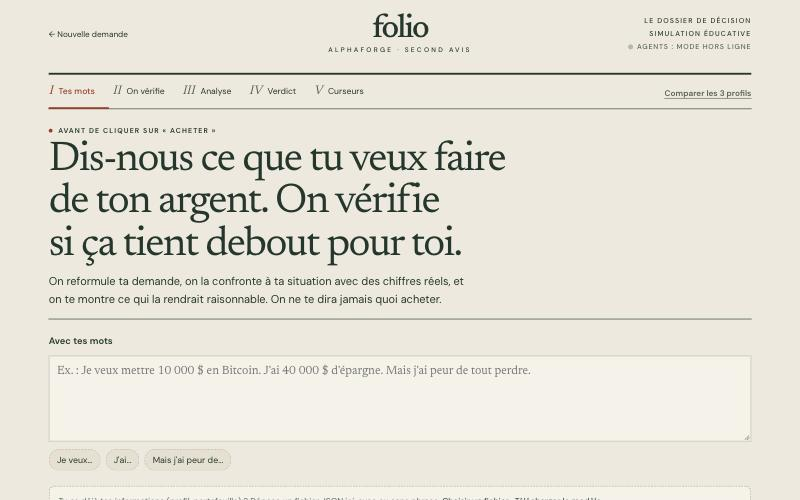
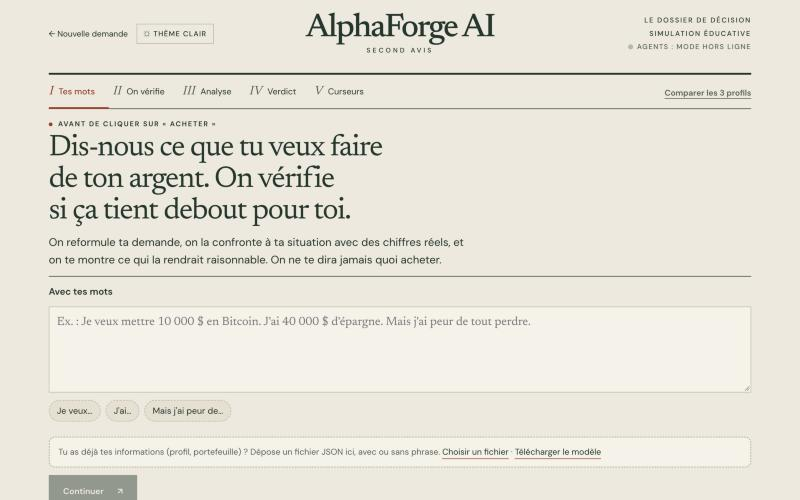
fix(ui-folio): la manchette retrouve son emplacement et sa taille ; seul le nom change
« AlphaForge AI » prend la place du mot-symbole, centré, au même corps ; « Second avis » dessous.
Le resserrement du contenu et les sections repliables sont conservés.

diff --git a/frontend/src/folio.css b/frontend/src/folio.css
@@ -48,23 +48,28 @@ h3 { font-size: 1.1rem; }
 .surtitre::before { content: ""; display: inline-block; width: 6px; height: 6px; border-radius: 50%; background: var(--red); margin-right: 9px; vertical-align: middle; }
 .lede { font-size: 1.1rem; color: var(--ink); max-width: 56ch; }
 
-/* En-tête sobre : une seule ligne, le nom de l'énoncé, les étapes, les réglages */
-.entete { background: var(--paper); border-bottom: 1px solid var(--ink); position: sticky; top: 0; z-index: 5; }
-.entete-int { max-width: 1180px; padding: 8px 28px; display: flex; align-items: center; gap: 6px 22px; flex-wrap: wrap; }
-.marque { flex-direction: row; align-items: baseline; gap: 10px; font: 500 1.3rem/1.1 var(--serif); letter-spacing: -0.02em; color: var(--ink); }
+/* Manchette */
+.entete { background: var(--paper); border-bottom: 0; position: static; }
+.entete-int { max-width: 1180px; padding: 22px 28px 0; display: grid; grid-template-columns: 1fr auto 1fr; align-items: center; gap: 12px 20px; }
+.manchette-gauche { justify-self: start; display: flex; align-items: center; gap: 14px; flex-wrap: wrap; }
+.manchette-droite { justify-self: end; text-align: right; font: 500 0.7rem/1.9 var(--sans); letter-spacing: 0.16em; text-transform: uppercase; }
+.marque { flex-direction: column; gap: 6px; justify-self: center; font: 500 3.3rem/0.9 var(--serif); letter-spacing: -0.05em; color: var(--ink); white-space: nowrap; }
 .marque-signe { display: none; }
-.marque-sous { border: 0; padding: 0; font: 500 0.62rem/1 var(--sans); letter-spacing: 0.2em; text-transform: uppercase; color: var(--muted-f); }
-.manchette-droite { margin-left: auto; display: flex; align-items: center; gap: 14px; flex-wrap: wrap; font: 500 0.66rem/1.4 var(--sans); letter-spacing: 0.12em; text-transform: uppercase; }
-.etat-dossier { color: var(--ink); }
-.etat-agents { border: 0; background: none; padding: 0; font: inherit; color: var(--muted-f); }
+.marque-sous { border: 0; padding: 0; font: 500 0.66rem/1 var(--sans); letter-spacing: 0.34em; text-transform: uppercase; color: var(--ink); }
+.lien-retour { background: none; border: 0; padding: 6px 0; cursor: pointer; font-size: 0.82rem; color: var(--ink); }
+.lien-retour:hover { color: var(--red); }
+.etat-agents { border: 0; background: none; padding: 0; font: 500 0.7rem/1.9 var(--sans); letter-spacing: 0.12em; text-transform: uppercase; color: var(--muted-f); }
 .etat-agents i { background: var(--line); }
 .etat-agents.actifs i { background: var(--green); }
+
+.barre-etapes { grid-column: 1 / -1; display: flex; align-items: flex-end; justify-content: space-between; gap: 16px; flex-wrap: wrap; border-top: 3px solid var(--ink); border-bottom: 1px solid var(--ink); margin-top: 18px; }
 .etapes { margin: 0; gap: 0; }
-.etapes li { border-radius: 0; padding: 8px 14px 6px 0; font-size: 0.82rem; color: var(--ink); gap: 7px; border-bottom: 2px solid transparent; }
-.etape-num { width: auto; height: auto; border: 0; border-radius: 0; background: none !important; color: var(--muted-f) !important; font: italic 400 1.05rem/1 var(--serif); }
+.etapes li { border-radius: 0; padding: 16px 22px 14px 0; margin-right: 6px; font-size: 0.86rem; color: var(--ink); gap: 9px; border-bottom: 3px solid transparent; margin-bottom: -1px; }
+.etape-num { width: auto; height: auto; border: 0; border-radius: 0; background: none !important; color: var(--muted-f) !important; font: italic 400 1.25rem/1 var(--serif); }
 .etapes li.actuelle { background: none; color: var(--red); font-weight: 500; border-bottom-color: var(--red); }
 .etapes li.actuelle .etape-num { color: var(--red) !important; }
-.entete .bouton.discret { border: 0; background: none; padding: 6px 0; min-height: 32px; font: inherit; letter-spacing: 0.08em; text-decoration: underline; text-underline-offset: 4px; }
+.etapes li.faite { color: var(--ink); }
+.barre-etapes .bouton.discret { border: 0; background: none; padding: 14px 0; font-size: 0.82rem; text-decoration: underline; text-underline-offset: 4px; }
 
 .contenu { max-width: 1180px; padding: 16px 28px 48px; }
 section { gap: 12px; }
@@ -205,9 +210,11 @@ h2[data-repliable]:hover { color: var(--red); }
 .noeud-raisonnement { border-radius: 0; }
 
 @media (max-width: 820px) {
-  .entete { position: static; }
-  .entete-int { padding: 8px 16px; gap: 4px 14px; }
-  .manchette-droite { margin-left: 0; gap: 10px; }
+  .entete-int { grid-template-columns: 1fr; justify-items: center; padding: 14px 16px 0; }
+  .manchette-gauche, .manchette-droite { justify-self: center; text-align: center; }
+  .marque { font-size: 2.3rem; }
+  .barre-etapes { justify-content: center; margin-top: 10px; }
+  .etapes li { padding: 10px 10px 8px 0; }
   .contenu { padding: 12px 16px 40px; }
   .pied { padding: 10px 16px 20px; }
   .verdict-tete.carte { grid-template-columns: 1fr; }
@@ -230,5 +237,4 @@ h2[data-repliable]:hover { color: var(--red); }
   .saisie-message { grid-template-columns: minmax(0, 1fr) auto; }
   .saisie-message .bouton { padding: 12px 14px; }
   .saisie-message .bouton.principal::after { display: none; }
-  .etapes li { padding: 6px 10px 4px 0; }
 }

diff --git a/frontend/src/App.jsx b/frontend/src/App.jsx
@@ -178,36 +178,40 @@ export default function App() {
     <div className="app">
       <header className="entete">
         <div className="entete-int">
-          <button type="button" className="marque" onClick={() => { setVue('parcours'); recommencer() }} title="Nouvelle demande">
+          <div className="manchette-gauche">
+            <button type="button" className="lien-retour" onClick={() => { setVue('parcours'); recommencer() }}>← Nouvelle demande</button>
+            <button type="button" className="choix-theme" role="switch" aria-checked={theme === 'sombre'}
+              onClick={() => setTheme(theme === 'sombre' ? 'clair' : 'sombre')} title="Changer de thème">
+              <span aria-hidden="true">{theme === 'sombre' ? '☾' : '☼'}</span> Thème {theme === 'sombre' ? 'sombre' : 'clair'}
+            </button>
+          </div>
+          <button type="button" className="marque" onClick={() => { setVue('parcours'); recommencer() }} aria-label={`${NOM_PRODUIT}, ${SOUS_TITRE} : revenir au début`}>
             {NOM_PRODUIT}
             <span className="marque-sous">{SOUS_TITRE}</span>
           </button>
-          {vue === 'parcours' && (
-            <ol className="etapes" aria-label="Étapes du parcours">
-              {ETAPES.map((nom, i) => (
-                <li key={nom} className={i === etape ? 'actuelle' : i < etape ? 'faite' : ''} aria-current={i === etape ? 'step' : undefined}>
-                  <span className="etape-num" aria-hidden="true">{ROMAINS[i]}</span>
-                  <span className="etape-nom">{nom}</span>
-                </li>
-              ))}
-            </ol>
-          )}
           <div className="manchette-droite">
-            {editions.length > 0 && (
-              <span className="etat-dossier">{lue !== null ? 'Archive' : 'Édition'} {indexEdition + 1}/{editions.length}{relance ? ' · analyse en cours' : ''}</span>
-            )}
+            <div>Le dossier de décision</div>
+            <div>{editions.length === 0 ? 'Simulation éducative'
+              : `${lue !== null ? 'Archive' : 'Édition'} ${indexEdition + 1} sur ${editions.length} · ${relance ? 'analyse en cours' : 'analyse terminée'}`}</div>
             {sante && (
               <span className={`etat-agents ${sante.llm ? 'actifs' : ''}`}
                 title={sante.llm ? `${sante.modeles.principal} et ${sante.modeles.leger}` : sante.raison || ''}>
                 <i aria-hidden="true" />
-                {sante.llm ? 'Bedrock' : 'Hors ligne'}
+                {sante.llm ? 'Agents IA : Bedrock' : 'Agents : mode hors ligne'}
               </span>
             )}
-            <button type="button" className="choix-theme" role="switch" aria-checked={theme === 'sombre'}
-              onClick={() => setTheme(theme === 'sombre' ? 'clair' : 'sombre')} title="Changer de thème"
-              aria-label={`Thème ${theme === 'sombre' ? 'sombre' : 'clair'} : changer`}>
-              <span aria-hidden="true">{theme === 'sombre' ? '☾' : '☼'}</span>
-            </button>
+          </div>
+          <div className="barre-etapes">
+            {vue === 'parcours' ? (
+              <ol className="etapes" aria-label="Étapes du parcours">
+                {ETAPES.map((nom, i) => (
+                  <li key={nom} className={i === etape ? 'actuelle' : i < etape ? 'faite' : ''} aria-current={i === etape ? 'step' : undefined}>
+                    <span className="etape-num" aria-hidden="true">{ROMAINS[i]}</span>
+                    <span className="etape-nom">{nom}</span>
+                  </li>
+                ))}
+              </ol>
+            ) : <span />}
             <button type="button" className="bouton discret" onClick={() => setVue(vue === 'parcours' ? 'comparer' : 'parcours')}>
               {vue === 'parcours' ? 'Comparer les 3 profils' : 'Retour au parcours'}
             </button>

diff --git a/docs/ui-folio/LISEZMOI.md b/docs/ui-folio/LISEZMOI.md
@@ -8,7 +8,7 @@ Source du style : `FOLIO_UI_KIT` (Folio 0.7.0), voie « transférer le langage v
 
 - `frontend/public/fonts/` : DM Sans et Newsreader (six fichiers, licences SIL OFL jointes). Plus aucune police chargée depuis un service externe.
 - `frontend/src/folio.css` : palette (papier, encre verte, rouge d'annotation), typographie, filets, manchette, onglets, double page du résultat. Chargée après `styles.css` : elle rhabille les classes existantes, elle n'en retire aucune.
-- En-tête sobre sur une ligne : « AlphaForge AI · Second avis » (le nom de l'énoncé), étapes en chiffres romains, état du dossier, thème.
+- Manchette : « AlphaForge AI » (le nom de l'énoncé) au centre, à l'emplacement et à la taille du mot-symbole d'origine, « Second avis » dessous ; état du dossier à droite, thème à gauche, étapes en chiffres romains.
 - Verdict en double page : l'avis en grand titre à gauche ; à droite le chiffre qui le porte, la pire baisse du portefeuille avec la demande, face à celle d'avant, avec son écart et son sens rendus par le moteur. Le chiffre ouvre sa preuve.
 - Lecture « Essentielle » et « Approfondie » : les deux onglets existants, présentés comme dans Folio.
 
